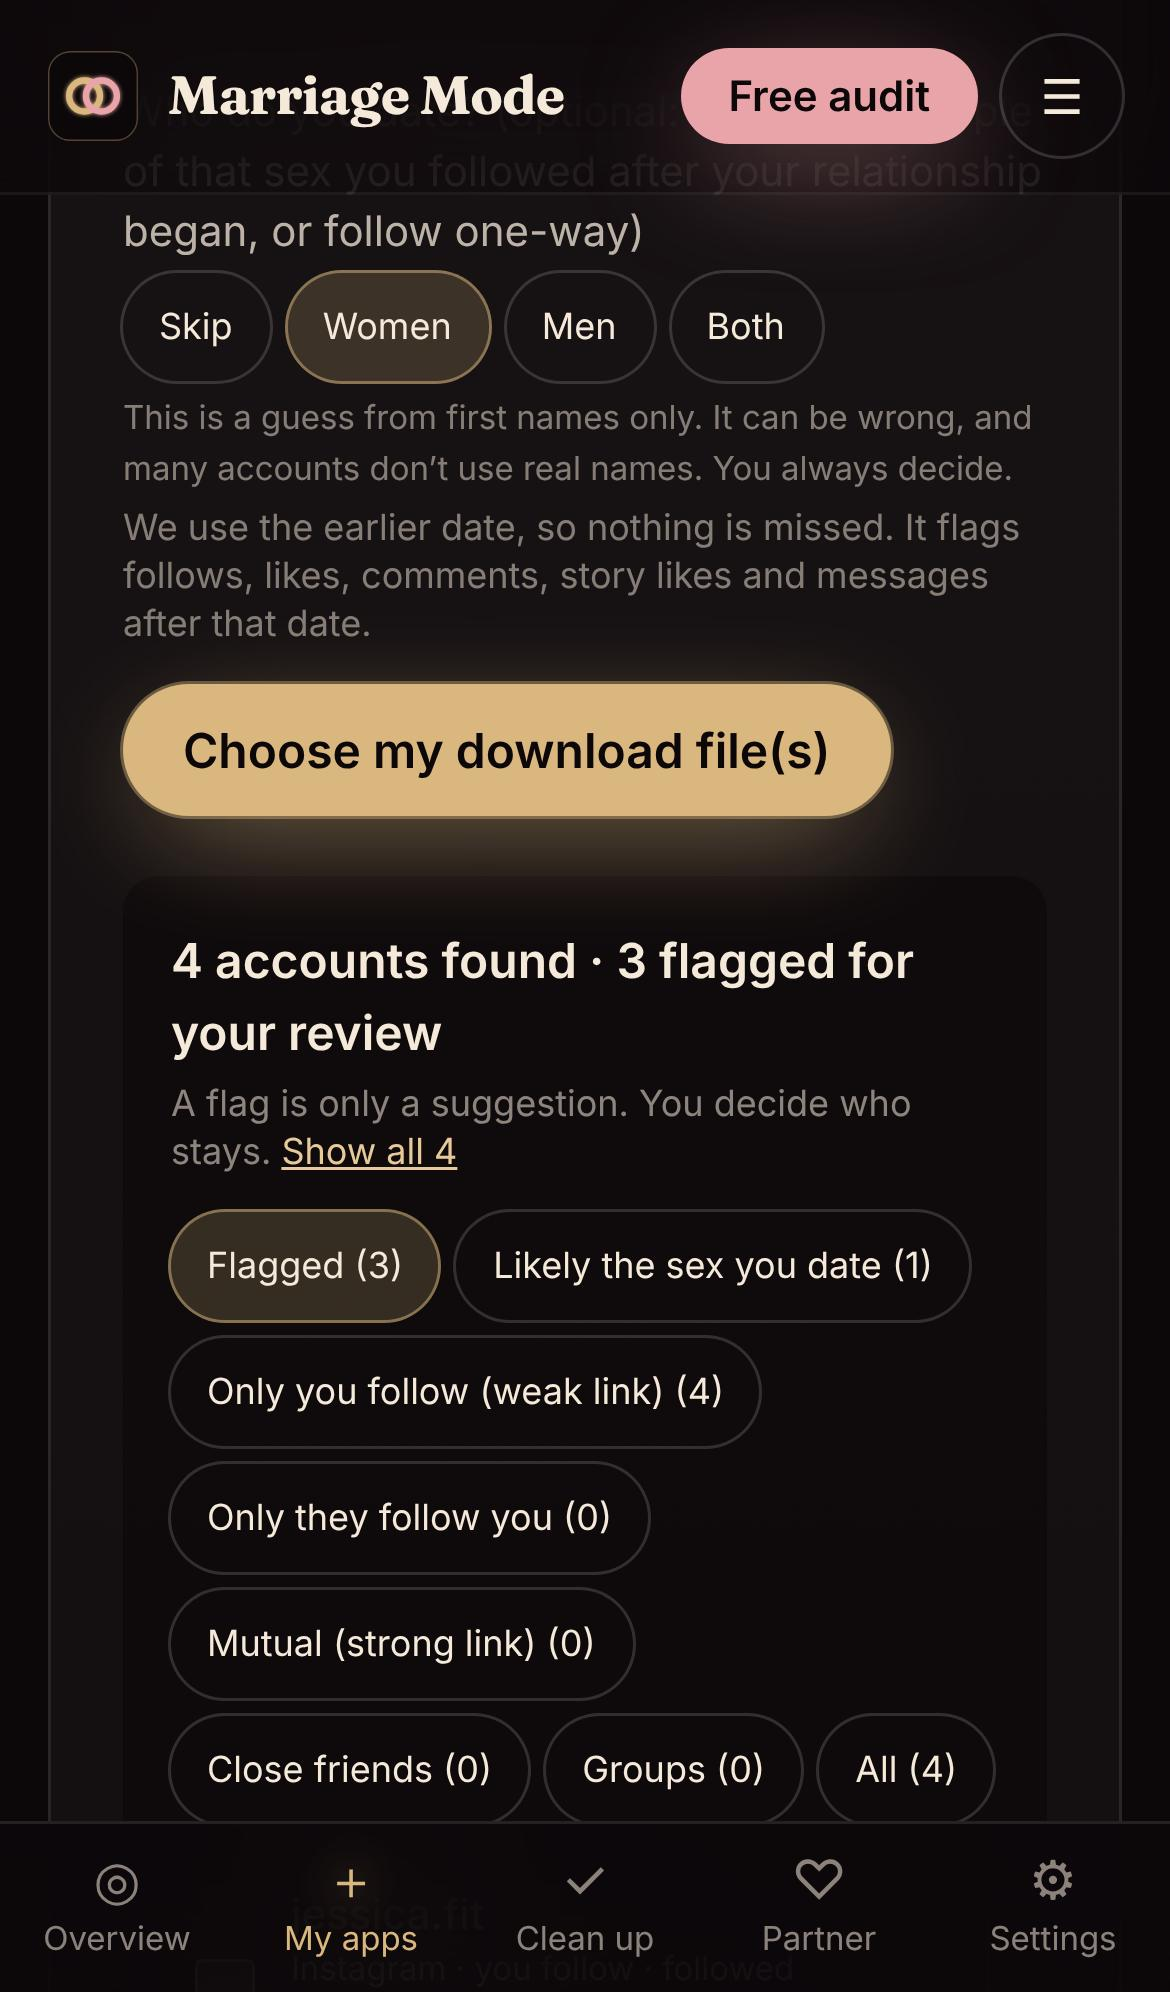
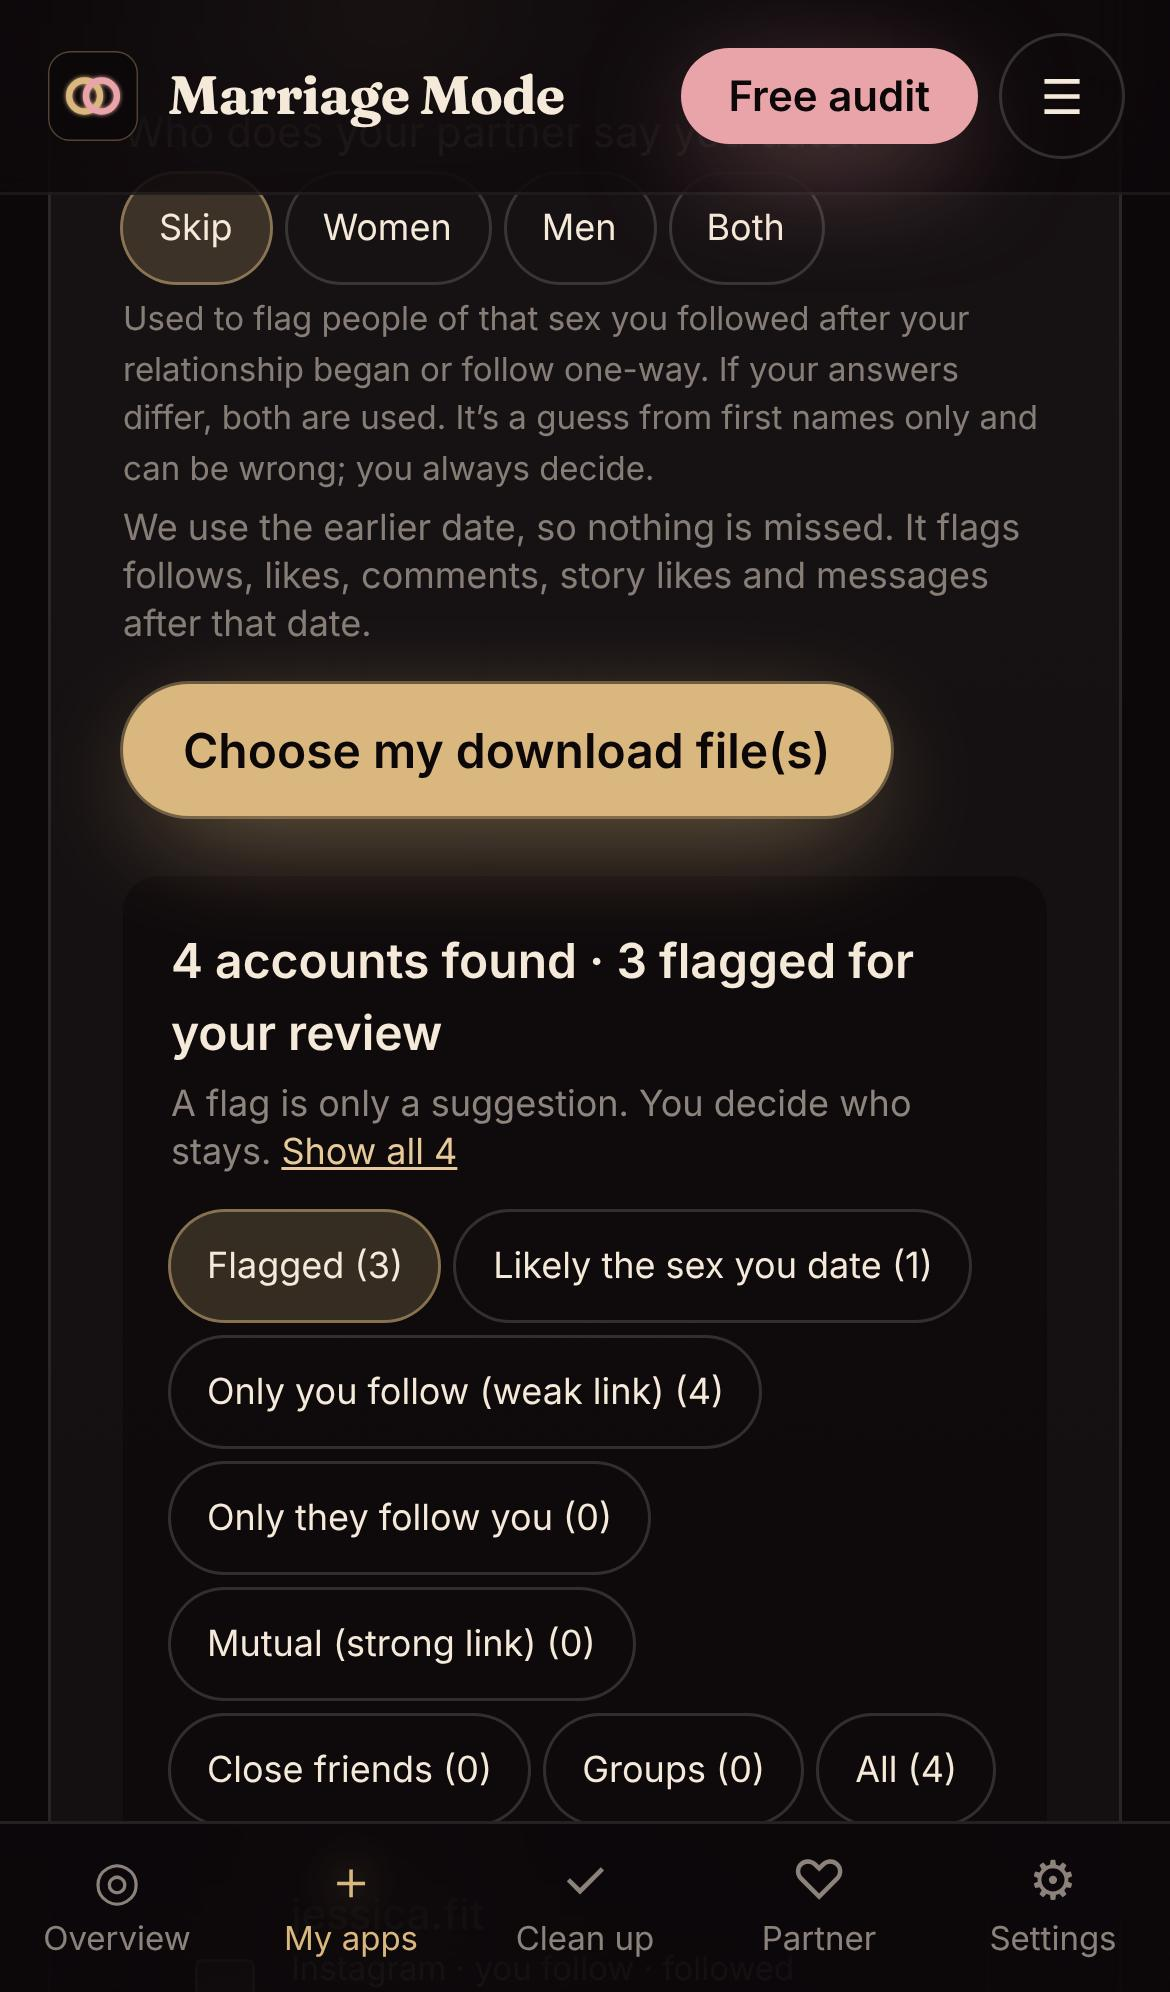
Social review: always show results (all-time interactions without a date) plus 'make your results sharper' suggestions
Claude-Session: https://claude.ai/code/session_01PMWj3aTo82XBh1qqnGkntn

Changed region(s): [[0.0923, 0.0934, 0.8923, 0.249]]

diff --git a/app/src/components/SocialScan.tsx b/app/src/components/SocialScan.tsx
@@ -24,7 +24,7 @@ export default function SocialScan() {
   useEffect(() => { setDone(loadDone()); }, []);
     const start = useMemo(() => [since, since2].filter(Boolean).sort()[0] ?? '', [since, since2]); // the earlier of the two dates
   const flagged = useMemo(() => flag(list, names.split(','), start || undefined, dates), [list, names, start, dates]);
-  const people = useMemo(() => (start && raw.length ? scanInteractions(raw, Date.parse(start), new Set(flagged.filter((a) => a.reasons.length).map((a) => a.handle.toLowerCase()))) : []), [raw, start, flagged]);
+  const people = useMemo(() => (raw.length ? scanInteractions(raw, start ? Date.parse(start) : 0, new Set(flagged.filter((a) => a.reasons.length).map((a) => a.handle.toLowerCase()))) : []), [raw, start, flagged]);
   const riskyPeople = people.filter((x) => x.reasons.length);
   const risky = flagged.filter((a) => a.reasons.length);
   const FILTERS: Record<typeof filter, (a: Account) => boolean> = {
@@ -106,9 +106,9 @@ export default function SocialScan() {
             </div>
           )}
 
-          {start && people.length > 0 && !queue && (
+          {people.length > 0 && !queue && (
             <div className="mt-5 rounded-xl bg-night/60 p-4 ring-1 ring-coral/25">
-              <p className="font-semibold">{t(`Your interactions since ${new Date(start).toLocaleDateString()}: ${riskyPeople.length} to review`, `Tus interacciones desde ${new Date(start).toLocaleDateString()}: ${riskyPeople.length} para revisar`)}</p>
+              <p className="font-semibold">{start ? t(`Your interactions since ${new Date(start).toLocaleDateString()}: ${riskyPeople.length} to review`, `Tus interacciones desde ${new Date(start).toLocaleDateString()}: ${riskyPeople.length} para revisar`) : t(`Your interactions (all time): ${riskyPeople.length} to review`, `Tus interacciones (todo el tiempo): ${riskyPeople.length} para revisar`)}</p>
               <p className="mt-1 text-xs text-ink/55">{t('Your own likes, reactions, comments, story likes and messages. Flagged when the words are flirty or risqué, the attention is frequent, or the account is already flagged. You decide what to undo.', 'Tus propios “me gusta”, reacciones, comentarios, reacciones a historias y mensajes. Se marcan si las palabras son coquetas o subidas de tono, si la atención es frecuente o si la cuenta ya está marcada. Tú decides qué deshacer.')}</p>
               <ul className="mt-3 max-h-96 space-y-2 overflow-y-auto pr-1">{(riskyPeople.length ? riskyPeople : people.slice(0, 20)).map((x) => (
                 <li key={x.key} className="rounded-lg p-3 ring-1 ring-white/10">
@@ -118,6 +118,20 @@ export default function SocialScan() {
                   <p className="mt-1 text-[11px] text-ink/55">{x.links[0] ? <a href={x.links[0]} target="_blank" rel="noopener noreferrer" className="text-teal underline">{t('Open a post to unlike or delete the comment ↗', 'Abrir una publicación para quitar el me gusta o borrar el comentario ↗')}</a> : t('Open the app to unlike, delete comments or archive the chat.', 'Abre la app para quitar “me gusta”, borrar comentarios o archivar el chat.')}</p>
                 </li>))}</ul>
               {riskyPeople.length === 0 && <p className="mt-2 text-sm text-palm">{t('Nothing risqué found since that date. 🎉', 'No se encontró nada subido de tono desde esa fecha. 🎉')}</p>}
+            </div>
+          )}
+
+          {list.length > 0 && !queue && (!start || !since2 || !dates1 || !dates2 || !names.trim() || !raw.length) && (
+            <div className="mt-5 rounded-xl bg-lagoon/10 p-4 ring-1 ring-lagoon/30">
+              <p className="font-semibold">{t('Make your results sharper', 'Haz tus resultados más precisos')}</p>
+              <p className="mt-1 text-xs text-ink/60">{t('Your results above are ready now. Add any of these and they update instantly:', 'Tus resultados ya están listos. Agrega cualquiera de estos y se actualizan al instante:')}</p>
+              <ul className="mt-2 list-disc space-y-1 pl-5 text-sm text-ink/80">
+                {!since && <li>{t('Your relationship start date: flags follows and interactions after it.', 'La fecha en que empezó su relación: marca seguidos e interacciones posteriores.')}</li>}
+                {!since2 && <li>{t('Your partner’s date, if they remember it differently.', 'La fecha de tu pareja, si la recuerda distinta.')}</li>}
+                {(!dates1 || !dates2) && <li>{t('Who you date, from you and from your partner: flags likely matches.', 'Con quién sales, según tú y según tu pareja: marca posibles coincidencias.')}</li>}
+                {!names.trim() && <li>{t('Names of exes or old flings to look for.', 'Nombres de exparejas o antiguos ligues a buscar.')}</li>}
+                {!raw.length && <li>{t('Likes, comments, story interactions and messages in your download: adds the interaction review.', '“Me gusta”, comentarios, historias y mensajes en tu descarga: agrega la revisión de interacciones.')}</li>}
+              </ul>
             </div>
           )}
 
